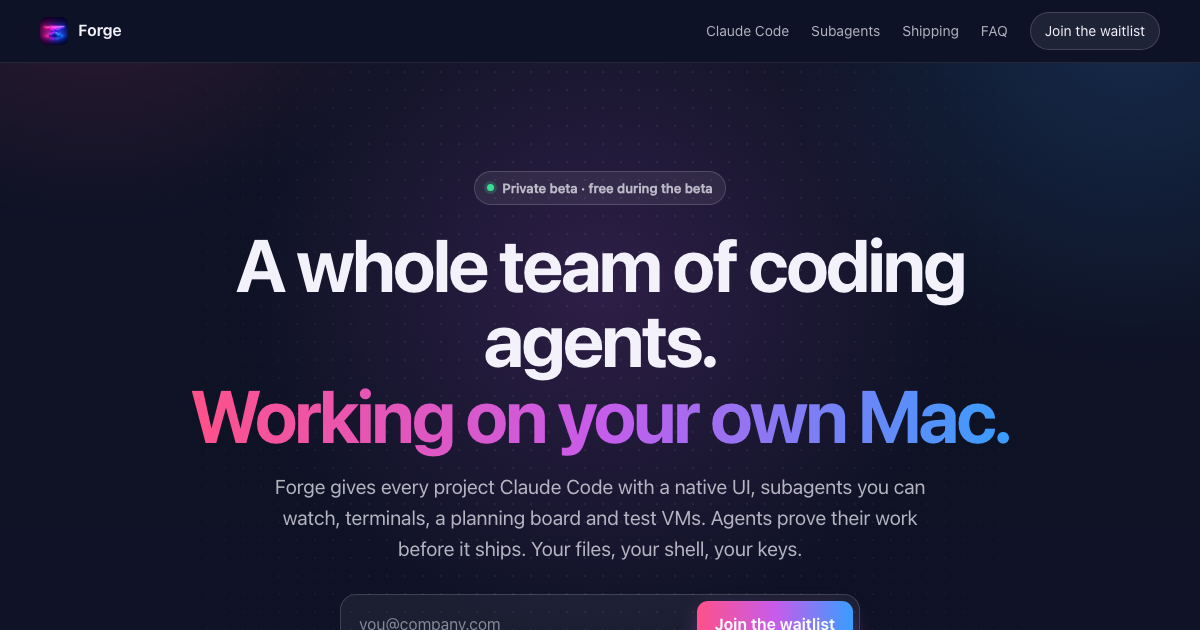
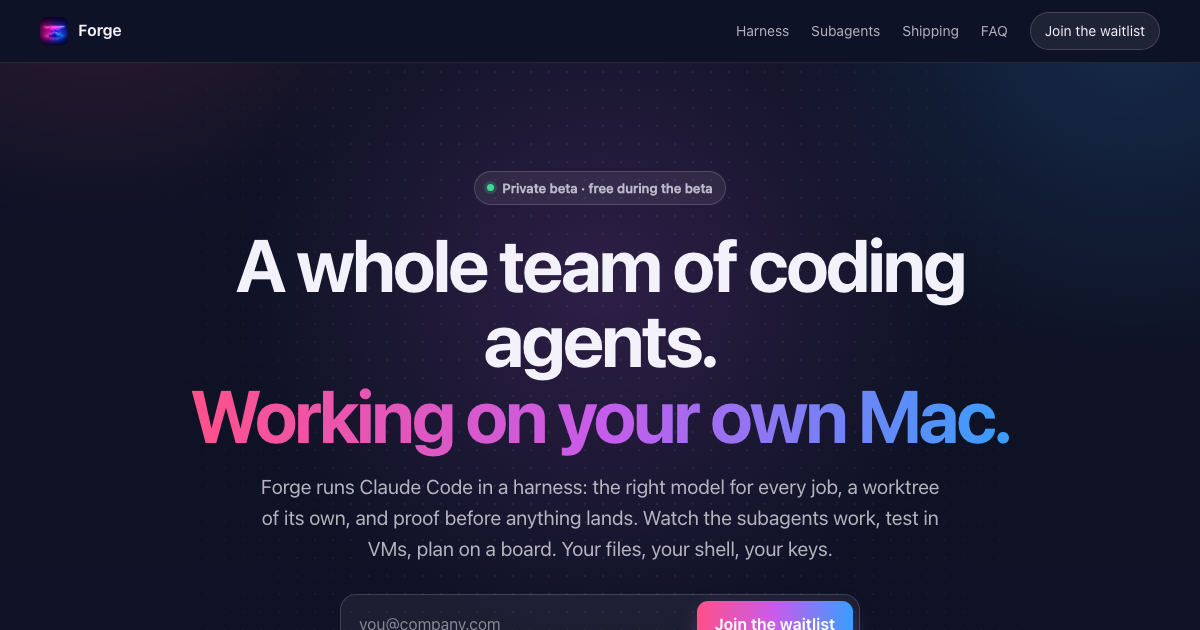
Market the harness: proof-gated hand-backs stage replaces the Claude Code UI section; hero copy leads with the harness

Changed region(s): [[0.2158, 0.8143, 0.8017, 0.9048], [0.2158, 0.754, 0.8017, 0.7841], [0.5858, 0.0302, 0.6475, 0.0603]]

diff --git a/index.html b/index.html
@@ -4,27 +4,27 @@
   <meta charset="utf-8" />
   <meta name="viewport" content="width=device-width, initial-scale=1" />
   <title>Forge: a whole team of coding agents on your own Mac</title>
-  <meta name="description" content="Forge is a native Mac workbench for coding agents. Claude Code with a real UI, subagents you can watch, terminals, a board and headless test VMs for every project. Agents prove their work before it ships. Private beta: join the waitlist." />
+  <meta name="description" content="Forge is a Mac workbench that runs Claude Code in a harness: the right model for every job, isolated worktrees, and a green test run on the exact commit before any agent can say done. Subagents you can watch, test VMs and a board. Private beta: join the waitlist." />
   <link rel="canonical" href="https://forge.coursion.studio/" />
   <link rel="icon" type="image/png" href="icon.png" />
   <link rel="apple-touch-icon" href="icon.png" />
   <link rel="stylesheet" href="home.css?v=3" />
-  <link rel="stylesheet" href="stages.css?v=9" />
+  <link rel="stylesheet" href="stages.css?v=11" />
   <meta name="theme-color" content="#0E1224" />
   <meta property="og:type" content="website" />
   <meta property="og:site_name" content="Forge" />
   <meta property="og:url" content="https://forge.coursion.studio/" />
   <meta property="og:title" content="Forge: a whole team of coding agents on your own Mac" />
-  <meta property="og:description" content="Claude Code with a native UI, subagents you can watch, terminals, a board and test VMs, in one Mac app. Private beta: join the waitlist." />
-  <meta property="og:image" content="https://forge.coursion.studio/og.png?v=4" />
+  <meta property="og:description" content="Claude Code in a harness: the right model per job, its own worktree, and proof before anything lands. Private beta: join the waitlist." />
+  <meta property="og:image" content="https://forge.coursion.studio/og.png?v=5" />
   <meta property="og:image:width" content="1200" />
   <meta property="og:image:height" content="630" />
   <meta property="og:image:alt" content="Forge: a whole team of coding agents on your own Mac" />
   <meta name="twitter:card" content="summary_large_image" />
   <meta name="twitter:site" content="@kuraydev" />
   <meta name="twitter:title" content="Forge: a whole team of coding agents on your own Mac" />
-  <meta name="twitter:description" content="Claude Code with a native UI, subagents you can watch, terminals, a board and test VMs, in one Mac app. Join the waitlist." />
-  <meta name="twitter:image" content="https://forge.coursion.studio/og.png?v=4" />
+  <meta name="twitter:description" content="Claude Code in a harness: the right model per job, its own worktree, and proof before anything lands. Join the waitlist." />
+  <meta name="twitter:image" content="https://forge.coursion.studio/og.png?v=5" />
   <script type="application/ld+json">{"@context":"https://schema.org","@type":"SoftwareApplication","name":"Forge","operatingSystem":"macOS 15 or later","applicationCategory":"DeveloperApplication","url":"https://forge.coursion.studio/","description":"A native Mac workbench for coding agents."}</script>
   <script defer src="https://polaris-backend-489776622782.europe-west1.run.app/api/v1/analytics/t.js" data-site="forge.coursion.studio"></script>
 </head>
@@ -34,7 +34,7 @@
   <nav class="top" aria-label="Main">
     <a class="brand" href="#top"><img src="icon.png" alt="" width="28" height="28" /><span>Forge</span></a>
     <div class="top-links">
-      <a href="#claude">Claude Code</a>
+      <a href="#harness">Harness</a>
       <a href="#subagents">Subagents</a>
       <a href="#ship">Shipping</a>
       <a href="#faq">FAQ</a>
@@ -48,7 +48,7 @@
     <div class="hero-copy">
       <span class="badge"><span class="badge-dot"></span>Private beta · free during the beta</span>
       <h1>A whole team of coding agents.<br /><span class="grad">Working on your own Mac.</span></h1>
-      <p class="sub">Forge gives every project Claude Code with a native UI, subagents you can watch, terminals, a planning board and test VMs. Agents prove their work before it ships. Your files, your shell, your keys.</p>
+      <p class="sub">Forge runs Claude Code in a harness: the right model for every job, a worktree of its own, and proof before anything lands. Watch the subagents work, test in VMs, plan on a board. Your files, your shell, your keys.</p>
       <div class="join" id="join">
         <form class="waitlist" method="POST" novalidate>
           <label class="sr-only" for="email-hero">Email address</label>
@@ -146,42 +146,33 @@
       </div>
     </section>
 
-    <section class="sec" id="claude" style="--accent:var(--purple)" aria-labelledby="claude-h">
+    <section class="sec" id="harness" style="--accent:var(--green)" aria-labelledby="harness-h">
       <div class="glowbg" aria-hidden="true"></div>
       <div class="wrap split">
         <div class="copy reveal">
-          <span class="kicker">Claude Code, native</span>
-          <h2 id="claude-h">The Claude Code you use, with a real interface.</h2>
-          <p class="lede">Forge runs your own Claude Code and draws its conversation natively. Read diffs, approve tools and switch models without leaving the pane.</p>
+          <span class="kicker">The harness</span>
+          <h2 id="harness-h">Agents can't just say “done”.</h2>
+          <p class="lede">Forge wraps Claude Code in a harness. Every job gets the right model, its own worktree and a clear finish line, and a hook turns back any “done” that has no green test run on the exact commit it hands you.</p>
           <ul class="points">
-            <li><b>Readable transcript.</b> Markdown, highlighted code, Edit diffs, Bash output and a live to-do list.</li>
-            <li><b>Permission cards.</b> Allow once or always, right where the tool asks.</li>
-            <li><b>Slash panels.</b> Model, effort, agents, MCP and permissions as panels above the composer.</li>
-            <li><b>Flip to the terminal TUI</b> any time. Same session, same history.</li>
+            <li><b>Proof, not promises.</b> A hand-back needs a passing <code>forge-verify</code> on that exact tree. Edit after testing and it goes back.</li>
+            <li><b>The right model for each job.</b> Haiku searches, Sonnet builds, Opus reviews, Fable takes the hard ones. Every launch says which and why.</li>
+            <li><b>Its own worktree.</b> Workers never touch your checkout. A reviewer and a tester check the branch before it lands.</li>
+            <li><b>Briefs with a finish line.</b> A brief without “Done when” bounces before the agent starts.</li>
+            <li><b>Nothing left behind.</b> A janitor clears merged worktrees, stale builds and test simulators.</li>
           </ul>
         </div>
-        <div class="stage reveal d1" aria-hidden="true">
-          <div class="mock">
-            <div class="mbar"><span class="tl"><span></span><span></span><span></span></span>Claude Code · lumen-web<span class="sp"></span><span class="chip on">opus</span><span class="chip">effort high</span><span class="chip">42% context</span></div>
-            <div class="mbody">
-              <div class="msg-user">Fix the rounding on the cart summary and add a test.</div>
-              <div class="msg-ai">The total adds rounded line prices. I'll round <b>once, at the end</b>.</div>
-              <div class="tool"><span class="ic" style="--c:#389EFF">Read</span>src/cart/summary.ts<span class="ok">✓</span></div>
-              <div class="diff">
-                <div class="h">src/cart/summary.ts</div>
-                <div class="d">- return lines.reduce((s, l) =&gt; s + round(l.price), 0)</div>
-                <div class="a">+ return round(lines.reduce((s, l) =&gt; s + l.price, 0))</div>
-              </div>
-              <div class="perm">
-                <span class="t">Claude wants to run a command</span>
-                <code>npm test -- cart</code>
-                <div class="row"><span class="pbtn go">Allow</span><span class="pbtn">Always allow npm test</span><span class="pbtn">Deny</span></div>
-              </div>
-            </div>
-            <div class="panel"><div class="sel"><span>/model</span><span>opus · sonnet · haiku</span></div><div><span>/agents</span><span>4 types</span></div><div><span>/mcp</span><span>2 servers</span></div></div>
-            <div class="composer"><span class="slash">/</span>Ask Claude, @ a file, drop an image…</div>
+        <figure class="stage reveal d1 live" id="hx-demo">
+          <div class="fw hx">
+            <div class="hx-bar"><span class="fw-tl"><span></span><span></span><span></span></span><b>Fix the cart rounding</b><span class="mc" style="--c:#4D9BFF">Sonnet 5.5</span><span class="ty">forge-worker</span><span class="sp"></span><code>worktree-agent-3f2a</code></div>
+            <div class="hx-log" aria-live="polite"></div>
+            <div class="hx-foot"><span class="hx-stat">Turned back <b data-hx-back>0</b></span><span class="hx-stat">Accepted <b data-hx-ok>0</b></span><span class="sp"></span><span class="hx-state" data-hx-state>Waiting for a brief</span></div>
           </div>
-        </div>
+          <div class="try hx-try"><span>How should the worker hand back?</span>
+            <button type="button" data-hx="cheat">Say done, skip the tests</button>
+            <button type="button" data-hx="edit">Edit after testing</button>
+            <button type="button" data-hx="proof">Hand back with proof</button>
+          </div>
+        </figure>
       </div>
     </section>
 
@@ -557,5 +548,6 @@
   <script src="mascot.js?v=3" defer></script>
   <script src="stages.js?v=7" defer></script>
   <script src="panes.js?v=2" defer></script>
+  <script src="harness.js?v=1" defer></script>
 </body>
 </html>

diff --git a/harness.js b/harness.js
@@ -1,0 +1,121 @@
+(function () {
+  var root = document.getElementById("hx-demo");
+  if (!root || !window.ForgeMascot) return;
+  var reduce = window.matchMedia("(prefers-reduced-motion: reduce)").matches || /[?&]static\b/.test(location.search);
+  var log = root.querySelector(".hx-log"), state = root.querySelector("[data-hx-state]");
+  var backN = root.querySelector("[data-hx-back]"), okN = root.querySelector("[data-hx-ok]");
+  var buttons = root.querySelectorAll("[data-hx]");
+  var back = 0, ok = 0, busy = false, run = 0;
+  var crew = {
+    explorer: { tier: "light", role: "scout", name: "forge-explorer", model: "Haiku 5.5", c: "#5CD985" },
+    worker: { tier: "medium", role: "builder", name: "forge-worker", model: "Sonnet 5.5", c: "#4D9BFF" },
+    reviewer: { tier: "careful", role: "reviewer", name: "forge-reviewer", model: "Opus 5.5", c: "#FFB33D" },
+    tester: { tier: "medium", role: "none", name: "forge-tester", model: "Sonnet 5.5", c: "#4D9BFF" }
+  };
+  var shield = '<svg viewBox="0 0 24 24" fill="none" stroke="currentColor" stroke-width="2" stroke-linecap="round" stroke-linejoin="round"><path d="M12 3l7.5 3v5.5c0 4.6-3.2 8.2-7.5 9.5-4.3-1.3-7.5-4.9-7.5-9.5V6z"/></svg>';
+  var landIcon = '<svg viewBox="0 0 24 24" fill="none" stroke="currentColor" stroke-width="2" stroke-linecap="round" stroke-linejoin="round"><circle cx="6" cy="5" r="2.2"/><circle cx="6" cy="19" r="2.2"/><circle cx="18" cy="9" r="2.2"/><path d="M6 7.2v9.6M18 11.2c0 4-6 3-11 6"/></svg>';
+
+  function wait(ms) { return new Promise(function (r) { setTimeout(r, reduce ? 0 : ms); }); }
+  function trim() { while (log.children.length > 7) log.removeChild(log.firstChild); }
+  var last = null;
+  function actor(who, text, detail, mood) {
+    var c = crew[who], el = document.createElement("div");
+    el.className = "hx-row";
+    el.innerHTML = '<canvas class="mascot"></canvas><div class="tx"><div class="h"><b>' + c.name + '</b><span class="mc" style="--c:' + c.c + '">' + c.model + '</span></div><div class="t"></div>' + (detail ? '<code></code>' : "") + "</div>";
+    el.querySelector(".t").textContent = text;
+    if (detail) el.querySelector("code").textContent = detail;
+    log.appendChild(el); trim();
+    if (last) last.set("ready");
+    last = new ForgeMascot(el.querySelector("canvas"), { crew: { tier: c.tier, role: c.role }, mood: mood || "working" });
+    return { el: el, m: last };
+  }
+  function hook(pass, title, why) {
+    var el = document.createElement("div");
+    el.className = "hx-row hook " + (pass ? "pass" : "fail");
+    el.innerHTML = '<span class="hx-ico">' + shield + '</span><div class="tx"><div class="h"><b>Hand-back hook</b><span class="verdict">' + (pass ? "✓ Accepted" : "✕ Turned back") + '</span></div><div class="t"></div><code></code></div>';
+    el.querySelector(".t").textContent = title;
+    el.querySelector("code").textContent = why;
+    log.appendChild(el); trim();
+    if (pass) okN.textContent = ++ok; else backN.textContent = ++back;
+    if (last) last.set(pass ? "celebrating" : "waiting");
+  }
+  function handback(lines) {
+    var el = document.createElement("div");
+    el.className = "hx-row hb";
+    el.innerHTML = '<span class="hx-ico hb-ico">↩</span><div class="tx"><div class="h"><b>Hand-back</b></div><pre></pre></div>';
+    el.querySelector("pre").textContent = lines;
+    log.appendChild(el); trim();
+  }
+  function landed(text) {
+    var el = document.createElement("div");
+    el.className = "hx-row land";
+    el.innerHTML = '<span class="hx-ico">' + landIcon + '</span><div class="tx"><div class="h"><b>Land</b><span class="verdict">main</span></div><div class="t"></div></div>';
+    el.querySelector(".t").textContent = text;
+    log.appendChild(el); trim();
+    if (last) last.set("ready");
+  }
+  function set(t) { state.textContent = t; }
+  function tree() { return Math.random().toString(16).slice(2, 8); }
+
+  async function play(kind) {
+    if (busy) return;
+    busy = true; var me = ++run;
+    buttons.forEach(function (b) { b.disabled = true; b.classList.toggle("on", b.dataset.hx === kind); });
+    log.innerHTML = ""; last = null;
+    set("Exploring");
+    actor("explorer", "Found the rounding in 2 files", "cart/summary.ts · cart/lineItem.ts", "reading");
+    await wait(1100); if (me !== run) return;
+    set("Building in its own worktree");
+    var w = actor("worker", "Rounding once, at the end", "Edit cart/summary.ts  +4 −2", "editing");
+    await wait(1300);
+    var t1 = tree();
+    if (kind === "cheat") {
+      handback("STATUS: done\nTESTS:  looks good to me");
+      await wait(900);
+      set("Turned back");
+      hook(false, "No proof in the worker's transcript", "no FORGE-VERIFY ok for worktree-agent-3f2a");
+      await wait(1500);
+      set("Running the tests");
+      w = actor("worker", "Running forge-verify", "FORGE-VERIFY ok tree=" + t1 + " · 214 passed", "working");
+      await wait(1300);
+    } else if (kind === "edit") {
+      w = actor("worker", "Running forge-verify", "FORGE-VERIFY ok tree=" + t1 + " · 214 passed", "working");
+      await wait(1100);
+      var t2 = tree();
+      actor("worker", "One more tweak after the run", "Edit cart/summary.ts  +1 −1", "editing");
+      await wait(1000);
+      handback("STATUS: done\nTESTS:  forge-verify ok (" + t1 + ")");
+      await wait(900);
+      set("Turned back");
+      hook(false, "The code changed after the green run", "tested " + t1 + ", handing back " + t2 + ". Run it again.");
+      await wait(1500);
+      set("Running the tests again");
+      t1 = t2;
+      actor("worker", "Running forge-verify", "FORGE-VERIFY ok tree=" + t1 + " · 214 passed", "working");
+      await wait(1300);
+    } else {
+      actor("worker", "Running forge-verify", "FORGE-VERIFY ok tree=" + t1 + " · 214 passed", "working");
+      await wait(1200);
+    }
+    handback("STATUS: done\nTESTS:  forge-verify ok (" + t1 + ")");
+    await wait(900);
+    set("Accepted");
+    hook(true, "Green run on the exact commit handed back", "tree " + t1 + " = HEAD of worktree-agent-3f2a");
+    await wait(1300);
+    set("Reviewing");
+    actor("reviewer", "Read the diff, ran the suite, probed refunds", "approve · 1 note", "reading");
+    await wait(1300);
+    set("Testing in the VM");
+    actor("tester", "Checked the cart in the test VM", "4 screenshots · totals match", "working");
+    await wait(1300);
+    set("Landed");
+    landed("Rebased, gate green, fast-forwarded. Build 552 installs when you're idle.");
+    buttons.forEach(function (b) { b.disabled = false; });
+    busy = false;
+  }
+
+  buttons.forEach(function (b) { b.addEventListener("click", function () { play(b.dataset.hx); }); });
+  if (reduce || !("IntersectionObserver" in window)) { play("cheat"); return; }
+  var io = new IntersectionObserver(function (es) { if (es[0].isIntersecting) { io.disconnect(); play("cheat"); } }, { threshold: 0.4 });
+  io.observe(root);
+})();

diff --git a/stages.css b/stages.css
@@ -364,3 +364,42 @@ canvas.mascot { cursor: pointer; }
 @media (prefers-reduced-motion: reduce) {
   .pp-pane, .bar i, .pv-rep .bars i, .pv-land .steps span, .pv-land .ok, .pv-log > div { animation: none; }
 }
+
+.lede code, .points code { white-space: nowrap; font: 0.9em var(--mono); padding: 1px 6px; border-radius: 5px; background: rgba(255,255,255,0.07); color: var(--ink); }
+.hx { display: flex !important; flex-direction: column; height: 520px; }
+.hx-bar { display: flex; align-items: center; gap: 8px; padding: 10px 14px; border-bottom: 1px solid rgba(255,255,255,0.07); font-size: 12.5px; white-space: nowrap; }
+.hx-bar .fw-tl { padding: 0; margin-right: 6px; }
+.hx-bar code { font: 10.5px var(--mono); color: var(--ink-3); overflow: hidden; text-overflow: ellipsis; }
+.hx .mc { padding: 1px 7px; border-radius: 6px; font-size: 10.5px; font-weight: 600; color: var(--c); background: color-mix(in srgb, var(--c) 16%, transparent); border: 1px solid color-mix(in srgb, var(--c) 40%, transparent); }
+.hx .ty { padding: 1px 7px; border-radius: 6px; font-size: 10.5px; color: var(--ink-2); background: rgba(255,255,255,0.05); border: 1px solid rgba(255,255,255,0.1); }
+.hx-log { flex: 1; min-height: 0; overflow: hidden; display: flex; flex-direction: column; justify-content: flex-end; gap: 8px; padding: 14px; }
+.hx-row { display: flex; gap: 11px; align-items: flex-start; padding: 9px 11px; border-radius: 11px; background: rgba(255,255,255,0.03); border: 1px solid rgba(255,255,255,0.07); animation: sa-in 0.4s var(--ease-out) both; text-align: left; flex: none; }
+.hx-row canvas.mascot { width: 36px; height: 36px; cursor: default; }
+.hx-row .tx { flex: 1; min-width: 0; display: grid; gap: 3px; }
+.hx-row .h { display: flex; align-items: center; gap: 7px; font-size: 11.5px; }
+.hx-row .h b { font-weight: 700; }
+.hx-row .t { font-size: 12.5px; color: var(--ink); }
+.hx-row code { font: 11px var(--mono); color: var(--ink-3); white-space: nowrap; overflow: hidden; text-overflow: ellipsis; }
+.hx-row pre { margin: 0; font: 11px/1.5 var(--mono); color: var(--ink-2); }
+.hx-ico { flex: none; width: 36px; height: 36px; display: grid; place-items: center; border-radius: 10px; background: rgba(255,255,255,0.06); color: var(--ink-2); }
+.hx-ico svg { width: 19px; height: 19px; }
+.hb-ico { font-size: 16px; }
+.hx-row.hb { background: rgba(255,255,255,0.02); border-style: dashed; }
+.hx-row .verdict { margin-left: auto; font-size: 11px; font-weight: 700; }
+.hx-row.hook.fail { border-color: rgba(255,90,90,0.55); background: rgba(255,90,90,0.08); }
+.hx-row.hook.fail .hx-ico, .hx-row.hook.fail .verdict { color: #FF6B6B; }
+.hx-row.hook.fail .hx-ico { background: rgba(255,90,90,0.14); }
+.hx-row.hook.fail { animation: sa-in 0.4s var(--ease-out) both, hx-shake 0.45s 0.15s ease both; }
+@keyframes hx-shake { 20% { transform: translateX(-4px); } 40% { transform: translateX(4px); } 60% { transform: translateX(-2px); } 80% { transform: translateX(2px); } }
+.hx-row.hook.pass, .hx-row.land { border-color: rgba(61,220,151,0.5); background: rgba(61,220,151,0.07); }
+.hx-row.hook.pass .hx-ico, .hx-row.hook.pass .verdict, .hx-row.land .hx-ico, .hx-row.land .verdict { color: var(--green); }
+.hx-row.hook.pass .hx-ico, .hx-row.land .hx-ico { background: rgba(61,220,151,0.14); }
+.hx-foot { display: flex; align-items: center; gap: 14px; padding: 9px 14px; border-top: 1px solid rgba(255,255,255,0.07); font-size: 11.5px; color: var(--ink-3); }
+.hx-stat b { color: var(--ink); font-variant-numeric: tabular-nums; margin-left: 4px; }
+.hx-state { color: var(--ink); font-weight: 600; }
+.hx-try { flex-wrap: wrap; }
+.hx-try > span { width: 100%; text-align: center; }
+.hx-try button[disabled] { opacity: 0.45; pointer-events: none; }
+.hx-try button.on { background: color-mix(in srgb, var(--accent) 30%, rgba(255,255,255,0.04)); }
+@media (prefers-reduced-motion: reduce) { .hx-row, .hx-row.hook.fail { animation: none; } }
+@media (max-width: 860px) { .hx { height: 540px; } .hx-bar .ty, .hx-bar code { display: none; } }
